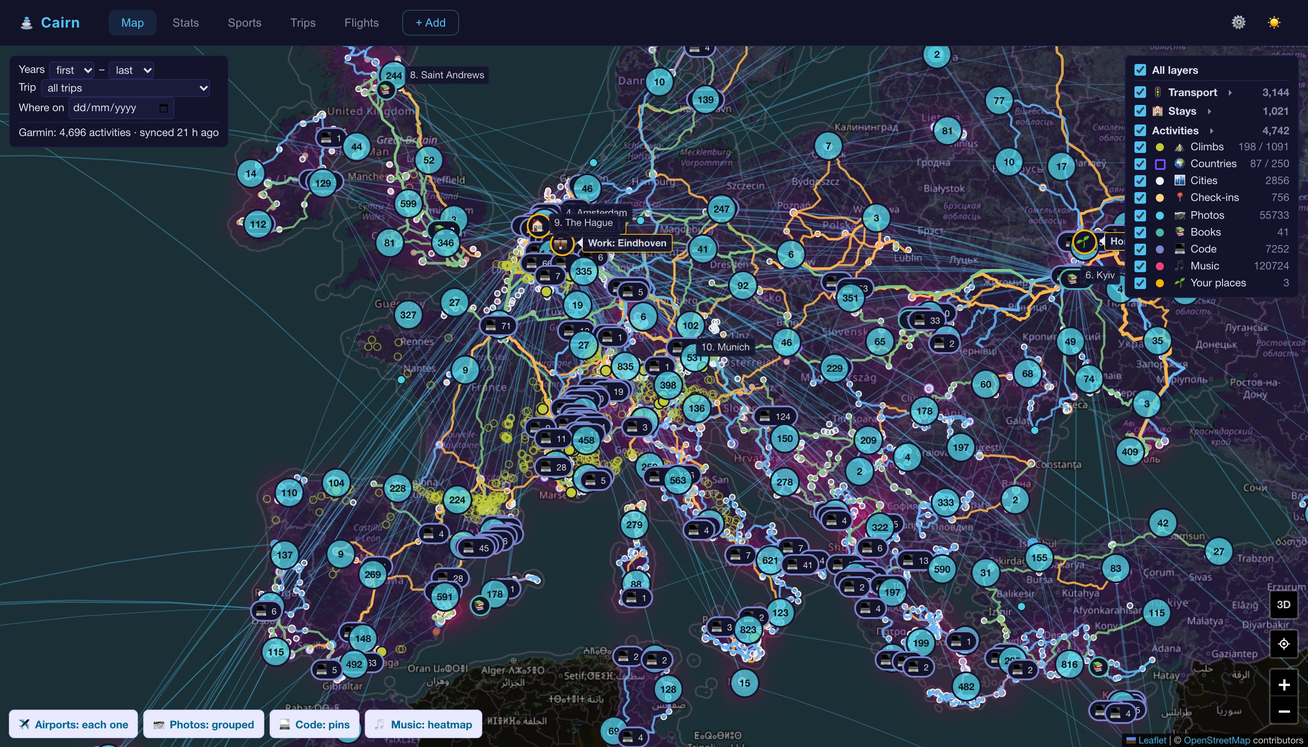
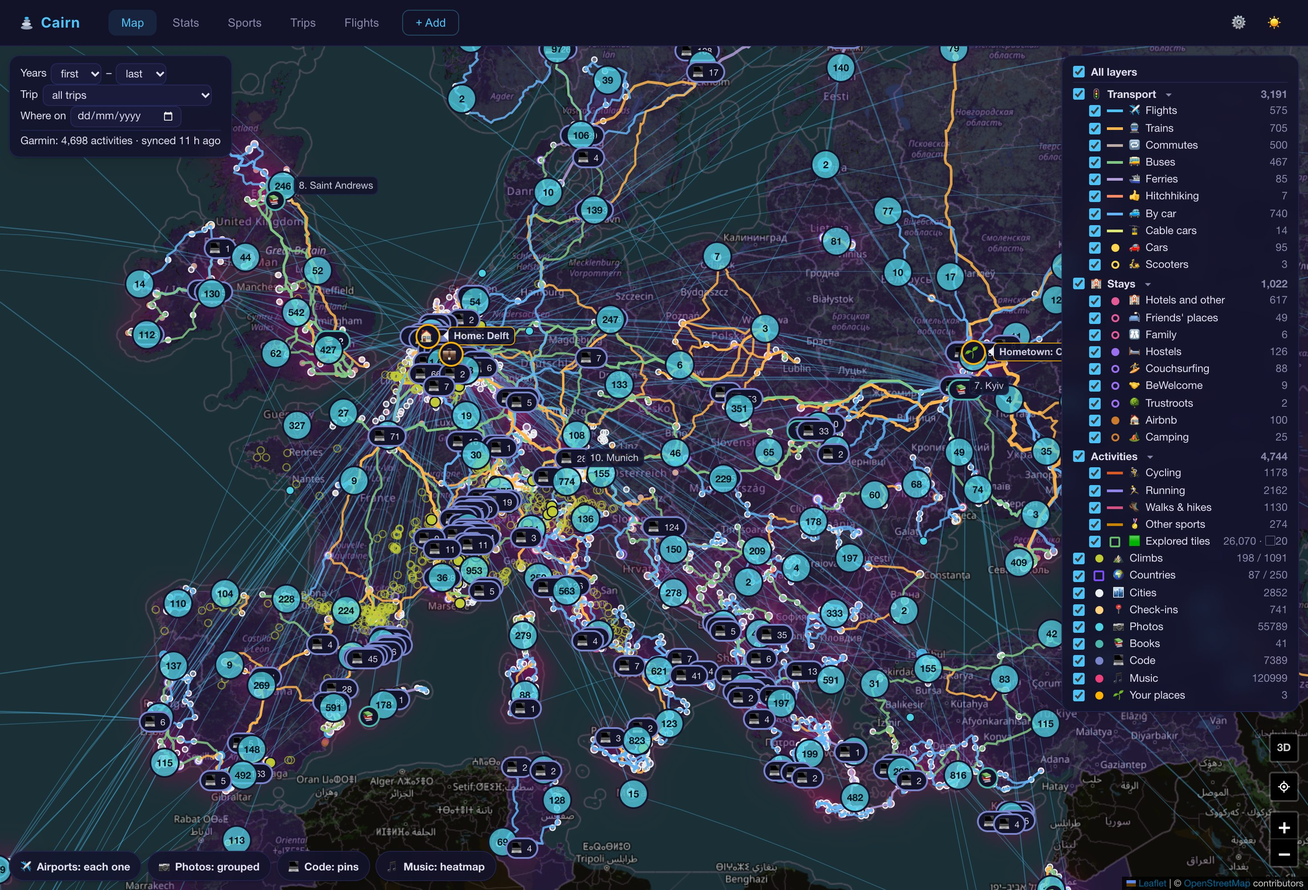
README: screenshots retaken (the top map with its legend groups open), an activity's page in the table, gzipped API answers

diff --git a/README.md b/README.md
@@ -61,7 +61,7 @@ Two parts:
 | ![A trip day by day: rides with their weather, trains, where you slept, sleep and heart rate](docs/trip-story.jpg)<br><sub>A trip day by day</sub> | ![A year in review](docs/year.jpg)<br><sub>A year in review</sub> |
 | ![A town's page with its own map and photos](docs/city.jpg)<br><sub>A town's page</sub> | ![A country's page: its flag, its map with everything there, its towns](docs/country.jpg)<br><sub>A country's page</sub> |
 | ![A climb's page: the ways up, your ride up coloured by gradient, your times against your FTP, a top climber and the record](docs/climb.jpg)<br><sub>A climb's page: its ways up, your times, the record</sub> | ![Where you slept: the stays alone, by kind of bed (hotels, hostels, Airbnb, friends' places, Couchsurfing, camping)](docs/map-stays.jpg)<br><sub>Where you slept, by kind of bed</sub> |
-| ![What you spent: on stays, and by card and cash, per year, country, town and trip](docs/spending.jpg)<br><sub>What you spent: stays, card and cash</sub> | ![Placing photos that have no place: by day, in a town or on the map, or by Cairn itself](docs/place-photos.jpg)<br><sub>Placing photos that have no place</sub><br><br>![An airline's page: its logo and codes, a map of its routes, your flights, distance and hours in the air with it](docs/airline.jpg)<br><sub>An airline's page</sub> |
+| ![What you spent: on stays, and by card and cash, per year, country, town and trip](docs/spending.jpg)<br><sub>What you spent: stays, card and cash</sub> | ![Placing photos that have no place: by day, in a town or on the map, or by Cairn itself](docs/place-photos.jpg)<br><sub>Placing photos that have no place</sub><br><br>![An airline's page: its logo and codes, a map of its routes, your flights, distance and hours in the air with it](docs/airline.jpg)<br><sub>An airline's page</sub><br><br>![An activity's page: its route on the map, with its numbers, profile, climbs, photos and music below](docs/activity.jpg)<br><sub>An activity's page</sub> |
 
 <p align="center"><img src="docs/replay.jpg" alt="A trip's replay: the trip drawn on the map day by day, a photo where it was taken" width="900"><br><sub>A trip's replay, to watch or save as a video</sub></p>
 
@@ -973,6 +973,8 @@ At most one request a second goes to each service; a service that is down is tri
 Moving to MongoDB later only needs the data layer in `app.js` (the `flights` array, `saveFlights()` and `init()`) replaced by a Mongoose model; the API routes stay the same.
 
 ## API
+
+Answers of 16 kB or more go out gzipped to a client that asks for it (`Accept-Encoding: gzip`, as browsers do); smaller ones, and all for a client that does not, as plain JSON.
 
 | Method | Path | Description |
 |--------|------|-------------|
